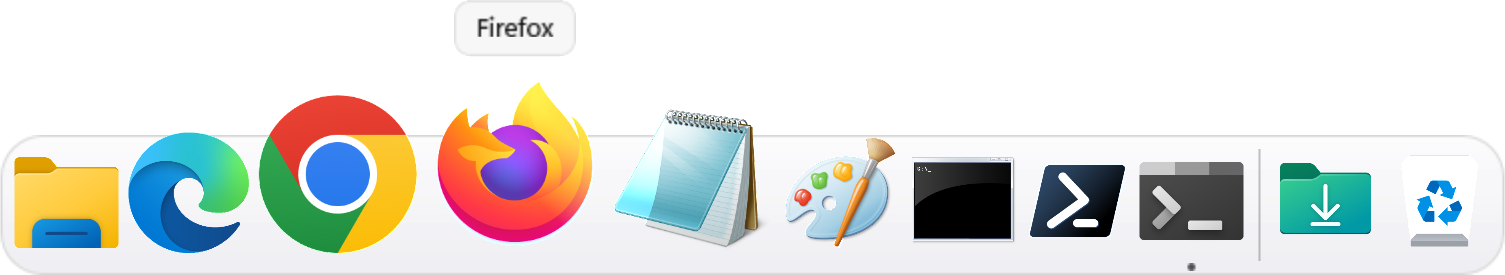
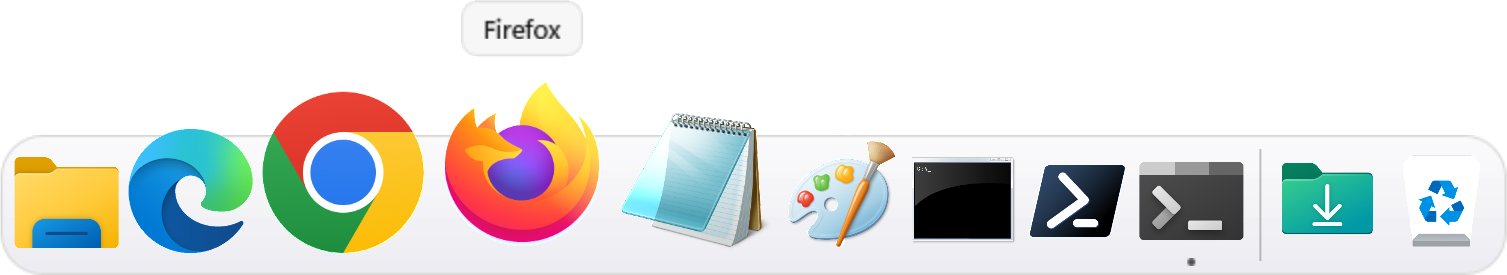
docs: use full-hd photos of the real dock, light and dark
Hero, settings, the side dock and the menu now come from a Windows 11 desktop at 1920x1080,
with File Explorer open, in the look that matches the page.

diff --git a/docs/index.html b/docs/index.html
@@ -7,7 +7,7 @@
 <meta name="description" content="Beanotch Dock brings the macOS Dock to Windows 10 and 11: magnifying icons, running dots, pinned apps, Downloads and the Recycle Bin, auto-hide. Free and open source.">
 <meta property="og:title" content="Beanotch Dock — The Mac dock, right on Windows">
 <meta property="og:description" content="A macOS-style dock for Windows. Free and open source.">
-<meta property="og:image" content="assets/dock-magnified-light.png">
+<meta property="og:image" content="assets/desktop-light.jpg">
 <link rel="icon" href="assets/icon.png">
 <link rel="preconnect" href="https://fonts.googleapis.com">
 <link rel="preconnect" href="https://fonts.gstatic.com" crossorigin>
@@ -526,6 +526,8 @@ svg.winlogo { width: 1.1em; height: 1.1em; }
 .desktop .win .body b { display: block; height: 10px; border-radius: 5px; background: var(--surface-2); }
 .desktop .w1 { left: 7%; top: 9%; width: 48%; height: 58%; }
 .desktop .w2 { right: 6%; top: 18%; width: 34%; height: 44%; }
+.desktop.real { aspect-ratio: auto; background: none; }
+.desktop.real img { width: 100%; }
 .desktop .dock { position: absolute; left: 12%; right: 12%; bottom: 0; }
 .desktop .dock img { width: 100%; }
 .feature-shot { background: var(--inner); border-radius: 16px; margin: 8px 8px 0; overflow: hidden; display: flex; align-items: flex-end; justify-content: center; aspect-ratio: 16 / 6.5;
@@ -535,6 +537,7 @@ svg.winlogo { width: 1.1em; height: 1.1em; }
 .menu-shot { border-radius: 18px; overflow: hidden; border: 1px solid var(--border); }
 .menu-shot img { width: 100%; }
 .settings-shot { aspect-ratio: 4 / 3.4 !important; align-items: flex-start !important; background: #1b5fd6 !important; }
+.settings-shot img.only-light, .settings-shot img.only-dark { height: 100%; }
 .settings-shot img { width: 100% !important; height: 100%; object-fit: cover; object-position: top left; }
 @media (max-width: 560px) { .desktop { aspect-ratio: 4 / 3; } .desktop .w2 { display: none; } .desktop .w1 { width: 80%; } .desktop .dock { left: -10%; right: -10%; } }
 </style>
@@ -574,10 +577,9 @@ svg.winlogo { width: 1.1em; height: 1.1em; }
     </div>
   </div>
   <div class="stage"><div class="hero-shot">
-    <div class="desktop">
-      <div class="win w1"><div class="tb">File Explorer<span><i>—</i><i>▢</i><i>✕</i></span></div><div class="body"><b style="width:60%"></b><b style="width:85%"></b><b style="width:72%"></b><b style="width:40%"></b><b style="width:78%"></b></div></div>
-      <div class="win w2"><div class="tb">Notepad<span><i>—</i><i>▢</i><i>✕</i></span></div><div class="body"><b style="width:90%"></b><b style="width:70%"></b><b style="width:82%"></b></div></div>
-      <div class="dock"><img class="only-light" src="assets/dock-magnified-light.png" alt="Beanotch Dock along the bottom of a Windows desktop, one icon magnified under the pointer"><img class="only-dark" src="assets/dock-magnified-dark.png" alt=""></div>
+    <div class="desktop real">
+      <img class="only-light" src="assets/desktop-light.jpg" alt="Beanotch Dock along the bottom of a Windows 11 desktop, Firefox magnified under the pointer, with File Explorer open">
+      <img class="only-dark" src="assets/desktop-dark.jpg" alt="">
     </div>
   </div></div>
   <div style="position:relative;max-width:1200px;margin:0 auto"><div class="hero-glow"></div></div>
@@ -635,8 +637,8 @@ svg.winlogo { width: 1.1em; height: 1.1em; }
       <p class="sub">Right-click the dock › Dock Settings. Everything changes as you go, with the dock right there behind the window.</p>
     </div>
     <div class="grid-2 panels">
-      <article class="card panel-card"><div class="shot settings-shot"><img src="assets/settings.png" alt="Dock Settings: size, magnification, position, look, glass, corners, spacing and more" loading="lazy"></div><div class="txt"><h3>Dock Settings</h3><p>Size, magnification and how much, the look, how see-through the glass is, corners, spacing, distance from the edge, names, open-app marks, auto-hide timing, bounce, and the order of your apps.</p></div></article>
-      <article class="card panel-card"><div class="shot settings-shot"><img src="assets/left.png" alt="Beanotch Dock along the left edge of a Windows desktop" loading="lazy"></div><div class="txt"><h3>Bottom, left or right</h3><p>Put the dock on any edge. It shrinks to fit when you keep more apps than the screen has room for.</p></div></article>
+      <article class="card panel-card"><div class="shot settings-shot"><img class="only-light" src="assets/settings-light.jpg" alt="Dock Settings: size, magnification, position, look, glass, corners, spacing and more" loading="lazy"><img class="only-dark" src="assets/settings-dark.jpg" alt="" loading="lazy"></div><div class="txt"><h3>Dock Settings</h3><p>Size, magnification and how much, the look, how see-through the glass is, corners, spacing, distance from the edge, names, open-app marks, auto-hide timing, bounce, and the order of your apps.</p></div></article>
+      <article class="card panel-card"><div class="shot settings-shot"><img class="only-light" src="assets/left-light.jpg" alt="Beanotch Dock along the left edge of a Windows desktop" loading="lazy"><img class="only-dark" src="assets/left-dark.jpg" alt="" loading="lazy"></div><div class="txt"><h3>Bottom, left or right</h3><p>Put the dock on any edge. It shrinks to fit when you keep more apps than the screen has room for.</p></div></article>
     </div>
   </div>
 </section>
@@ -647,10 +649,10 @@ svg.winlogo { width: 1.1em; height: 1.1em; }
       <div>
         <span class="eyebrow">Right-click</span>
         <h2>Settings live<em>in the dock.</em></h2>
-        <p class="sub">Right-click an empty part of the dock for magnification, auto-hide, the taskbar, Downloads, size and opening at sign-in. Right-click an app to keep it, remove it, find it in File Explorer or quit it.</p>
+        <p class="sub">Right-click an empty part of the dock for magnification, auto-hide, which edge it sits on, and Dock Settings for everything else. Right-click an app to keep it, remove it, find it in File Explorer or quit it.</p>
       </div>
     </div>
-    <div class="card menu-shot" style="margin-top:40px"><img src="assets/menu.png" alt="The dock's menu on a Windows desktop: Magnification, Automatically hide the Dock, Hide the Windows taskbar, Show Downloads, Size, Open at sign-in, Quit" loading="lazy"></div>
+    <div class="card menu-shot" style="margin-top:40px"><img class="only-light" src="assets/menu-light.jpg" alt="The dock's menu on a Windows desktop: Magnification, Automatically hide the Dock, Hide the Windows taskbar, Show Downloads, Size, Open at sign-in, Quit" loading="lazy"><img class="only-dark" src="assets/menu-dark.jpg" alt="" loading="lazy"></div>
   </div>
 </section>
 
